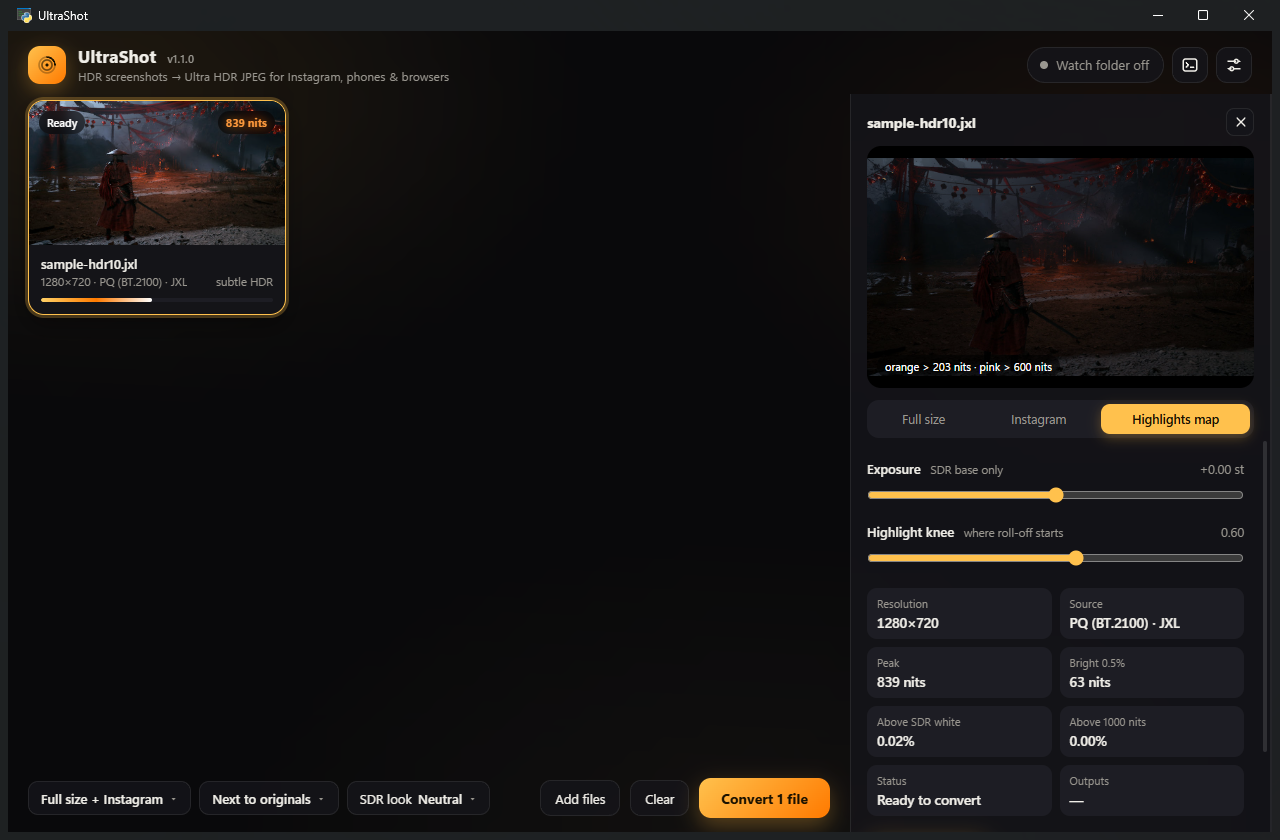
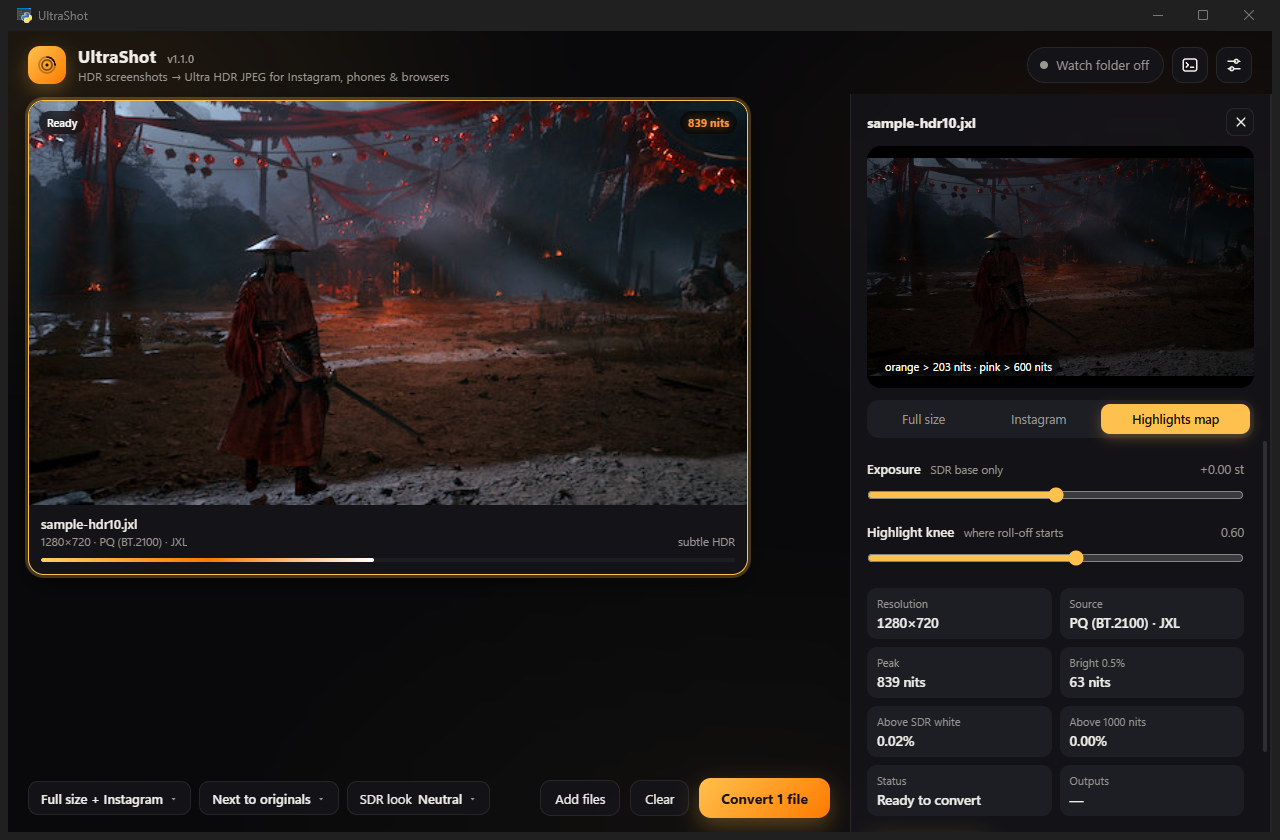
Tiles sized to the list, source comparison opens fitted
The card grid computes its columns from the number of captures and the space available, so one capture gets a large tile at the left, a few share the width, and a long list keeps the dense grid; it refits on every resize. The source comparison in the viewer opens fitted to the window with an Actual pixels toggle and double-click-to-zoom on the chosen spot. The screenshot tool now keeps its own session file and thumbnail cache instead of the app's.

Changed region(s): [[0.0, 0.0929, 0.5938, 0.7119], [0.0312, 0.0, 0.0625, 0.031], [0.0, 0.4952, 0.0312, 0.5262]]

diff --git a/ui/app.js b/ui/app.js
@@ -82,8 +82,30 @@ function renderGrid() {
   empty.classList.toggle("hidden", has);
   grid.innerHTML = "";
   for (const id of S.order) grid.appendChild(cardFor(S.files.get(id)));
+  fitGrid();
   updateConvertButton();
 }
+
+// Tiles grow to use the space: one capture fills the view, a handful share it, and only a long
+// list falls back to the dense grid. Re-run whenever the list or the available area changes.
+function fitGrid() {
+  const grid = $("#grid"), main = $("#main"), n = S.order.length;
+  if (!n) return;
+  const gap = 14, cs = getComputedStyle(main);
+  const W = main.clientWidth - parseFloat(cs.paddingLeft) - parseFloat(cs.paddingRight);
+  const H = main.clientHeight - parseFloat(cs.paddingTop) - parseFloat(cs.paddingBottom);
+  const minTile = innerWidth < 1100 ? 220 : 250, caption = 78;
+  const maxCols = Math.max(1, Math.floor((W + gap) / (minTile + gap)));
+  let cols = Math.min(maxCols, Math.ceil(Math.sqrt(n)));
+  let tile = (W - gap * (cols - 1)) / cols;
+  // a few big tiles must still fit the height of the view, two rows at most for 2-4 captures
+  const rows = Math.ceil(n / cols);
+  const byHeight = ((H - gap * (rows - 1)) / rows - caption) * 16 / 9;
+  tile = Math.max(minTile, Math.min(tile, 720, byHeight));
+  grid.style.gridTemplateColumns = `repeat(${cols}, minmax(0, ${Math.floor(tile)}px))`;
+  grid.style.justifyContent = "start";
+}
+new ResizeObserver(() => fitGrid()).observe(document.getElementById("main"));
 
 function pendingIds() {
   const redo = !!S.settings.overwrite;
@@ -422,7 +444,7 @@ function appendLog(t, msg) {
 }
 
 /* ------------------------------------------------------------------ result viewer */
-const LB = { ids: [], i: 0, which: "ig", path: null, seq: 0, info: false, report: "", compare: false, cmpMode: "sdrhdr", cmpSeq: 0 };
+const LB = { ids: [], i: 0, which: "ig", path: null, seq: 0, info: false, report: "", compare: false, cmpMode: "sdrhdr", cmpZoom: "fit", cmpSeq: 0 };
 
 function convertedIds() { return S.order.filter((id) => { const f = S.files.get(id); return f && f.outputs && f.outputs.length; }); }
 
@@ -456,9 +478,10 @@ async function loadCompare() {
   const seq = ++LB.cmpSeq, stage = $("#cmpStage"), one = LB.cmpMode === "source";
   $("#cmpMode").querySelectorAll("button").forEach((b) => b.classList.toggle("on", b.dataset.v === LB.cmpMode));
   $("#cmpLoading").style.display = ""; $("#cmpMetrics").innerHTML = ""; $("#cmpHint").textContent = "";
-  stage.classList.toggle("one-to-one", one);
+  stage.classList.remove("one-to-one");
   stage.style.maxWidth = ""; stage.style.maxHeight = "";
   stage.style.setProperty("--px", "0px"); stage.style.setProperty("--py", "0px");
+  $("#cmpZoom").classList.toggle("hidden", !one);
   setWipe(50);
   let r;
   try { r = one ? await S.api.compare_source(id) : await S.api.compare_sdr_hdr(id, LB.which); } catch (e) { r = { error: String(e) }; }
@@ -468,21 +491,14 @@ async function loadCompare() {
   if (one) {
     $("#cmpImgA").src = r.src_url; $("#cmpImgB").src = r.base_url;
     $("#cmpLabelA").textContent = "Source, same tone map"; $("#cmpLabelB").textContent = "Output base image";
-    $("#cmpHint").textContent = "Actual pixels. Drag the image to pan, the handle to wipe.";
     const m = r.metrics, sdrOk = m.sdr_psnr_db >= 40, hdrOk = m.hdr_p99_rel_err <= 5;
     $("#cmpMetrics").innerHTML =
       `<span>SDR base vs source: <b class="${sdrOk ? "ok" : "warn"}">${m.sdr_psnr_db >= 99 ? "identical" : m.sdr_psnr_db.toFixed(1) + " dB PSNR"}</b>, max ${m.sdr_max_diff}/255, ${m.sdr_pixels_over_2.toFixed(2)}% of pixels off by more than 2 levels</span>` +
       `<span>HDR layer vs source: <b class="${hdrOk ? "ok" : "warn"}">${m.hdr_mean_rel_err.toFixed(2)}% mean luminance error</b>, ${m.hdr_p99_rel_err.toFixed(1)}% at the 99th percentile, ${m.hdr_pixels_over_5pct.toFixed(2)}% of pixels off by more than 5% (pixels above 5 nits)</span>` +
       `<span>Peak: source <b>${Math.round(m.hdr_peak_source)}</b> nits, output <b>${Math.round(m.hdr_peak_output)}</b> nits</span>` +
       `<span>Rendered with the current look (exposure ${m.look.exposure >= 0 ? "+" : ""}${m.look.exposure.toFixed(2)}, knee ${m.look.knee.toFixed(2)}${m.look.limit_nits ? ", limit " + m.look.limit_nits + " nits" : ""})</span>`;
-    // At 1:1 the stage never exceeds the image, so a small capture sits centred with the wipe
-    // running across the picture, and a large one starts centred on its middle.
-    $("#cmpImgA").onload = () => {
-      const img = $("#cmpImgA");
-      stage.style.maxWidth = img.naturalWidth + "px"; stage.style.maxHeight = img.naturalHeight + "px";
-      const dx = Math.min(0, (stage.clientWidth - img.naturalWidth) / 2), dy = Math.min(0, (stage.clientHeight - img.naturalHeight) / 2);
-      stage.style.setProperty("--px", dx + "px"); stage.style.setProperty("--py", dy + "px");
-    };
+    $("#cmpImgA").onload = () => applyZoom();
+    if ($("#cmpImgA").complete && $("#cmpImgA").naturalWidth) applyZoom();
   } else {
     stage.style.maxWidth = ""; stage.style.maxHeight = "";
     $("#cmpImgA").src = r.base_url; $("#cmpImgB").src = r.full_url;
@@ -491,8 +507,42 @@ async function loadCompare() {
     $("#cmpMetrics").innerHTML = `<span>${r.w}×${r.h} · ${LB.which === "full" ? "full-size file" : "Instagram copy"} · drag the handle to wipe</span>`;
   }
 }
+// The source comparison opens fitted to the window. "Actual pixels" (or a double-click on a spot)
+// switches to 1:1, where the stage never exceeds the image: a small capture sits centred with the
+// wipe across the picture, a large one is panned by dragging. `focus` is the image point (0..1)
+// to keep under the pointer when zooming in.
+function applyZoom(focus) {
+  const stage = $("#cmpStage"), img = $("#cmpImgA"), px = LB.cmpMode === "source" && LB.cmpZoom === "1:1";
+  stage.classList.toggle("one-to-one", px);
+  $("#cmpZoom").classList.toggle("on", px);
+  $("#cmpZoom").textContent = px ? "Fit to window" : "Actual pixels";
+  $("#cmpHint").textContent = px ? "Actual pixels. Drag the image to pan, the handle to wipe; double-click to fit."
+                                 : "Fitted to the window. Drag the handle to wipe; double-click a spot to see its actual pixels.";
+  if (!px || !img.naturalWidth) { stage.style.maxWidth = ""; stage.style.maxHeight = ""; stage.style.setProperty("--px", "0px"); stage.style.setProperty("--py", "0px"); return; }
+  stage.style.maxWidth = img.naturalWidth + "px"; stage.style.maxHeight = img.naturalHeight + "px";
+  const sw = stage.clientWidth, sh = stage.clientHeight, f = focus || { x: 0.5, y: 0.5, sx: sw / 2, sy: sh / 2 };
+  const dx = Math.min(0, Math.max(sw - img.naturalWidth, f.sx - f.x * img.naturalWidth));
+  const dy = Math.min(0, Math.max(sh - img.naturalHeight, f.sy - f.y * img.naturalHeight));
+  stage.style.setProperty("--px", dx + "px"); stage.style.setProperty("--py", dy + "px");
+}
+function toggleZoom(e) {
+  if (LB.cmpMode !== "source") return;
+  const stage = $("#cmpStage"), img = $("#cmpImgA"), rect = stage.getBoundingClientRect();
+  LB.cmpZoom = LB.cmpZoom === "1:1" ? "fit" : "1:1";
+  let focus = null;
+  if (e && LB.cmpZoom === "1:1" && img.naturalWidth) {
+    // where in the fitted picture was the click, as a fraction of the image
+    const s = Math.min(rect.width / img.naturalWidth, rect.height / img.naturalHeight);
+    const dw = img.naturalWidth * s, dh = img.naturalHeight * s, ox = (rect.width - dw) / 2, oy = (rect.height - dh) / 2;
+    const x = Math.max(0, Math.min(1, (e.clientX - rect.left - ox) / dw)), y = Math.max(0, Math.min(1, (e.clientY - rect.top - oy) / dh));
+    focus = { x, y, sx: e.clientX - rect.left, sy: e.clientY - rect.top };
+  }
+  applyZoom(focus);
+}
 function bindWipe() {
   const stage = $("#cmpStage"); let drag = null;
+  stage.addEventListener("dblclick", (e) => toggleZoom(e));
+  $("#cmpZoom").addEventListener("click", () => toggleZoom(null));
   stage.addEventListener("pointerdown", (e) => {
     const rect = stage.getBoundingClientRect();
     const onHandle = e.target.closest("#cmpHandle") || Math.abs(e.clientX - (rect.left + rect.width * parseFloat(getComputedStyle(stage).getPropertyValue("--wipe")) / 100)) < 14;

diff --git a/ui/index.html b/ui/index.html
@@ -149,7 +149,8 @@
   <div class="lb-stage" id="lbStage"><img id="lbImg" alt=""><div class="lb-loading" id="lbLoading"><span class="spinner"></span></div></div>
   <div class="lb-compare hidden" id="lbCompare">
     <div class="cmp-tools">
-      <div class="seg mini" id="cmpMode"><button data-v="sdrhdr" class="on">SDR base vs Ultra HDR</button><button data-v="source">Source vs output · 1:1</button></div>
+      <div class="seg mini" id="cmpMode"><button data-v="sdrhdr" class="on">SDR base vs Ultra HDR</button><button data-v="source">Source vs output</button></div>
+      <button class="ghost tiny hidden" id="cmpZoom" title="Switch between fitting the window and showing real pixels (or double-click the picture)">Actual pixels</button>
       <span class="cmp-hint" id="cmpHint"></span>
     </div>
     <div class="cmp-stage" id="cmpStage">

diff --git a/tools/screenshots.py b/tools/screenshots.py
@@ -62,6 +62,11 @@ def main():
     os.makedirs(OUT, exist_ok=True)
     ctypes.windll.shcore.SetProcessDpiAwareness(1)
 
+    # Keep the demo run away from the real app's remembered list and thumbnail cache.
+    import tempfile
+    scratch = tempfile.mkdtemp(prefix="ultrashot-shots-")
+    U.SESSION_FILE = os.path.join(scratch, "session.json")
+    U.THUMB_DIR = os.path.join(scratch, "thumbs")
     app = U.App()
     app.settings.update(watch=False, startup=False, explorer_menu=False, tray=False, theme="dark",
                         ig_crop="4:5", exposure=0.0, knee=0.6, auto_sdr=False)

diff --git a/CHANGELOG.md b/CHANGELOG.md
@@ -23,6 +23,11 @@ All notable changes to UltraShot are documented here. The format follows
   same tone map so the two differ only by what the encoder changed. The source comparison reports
   the PSNR of the base image against the source, the share of pixels off by more than two levels,
   and the mean, 99th-percentile and over-five-percent luminance error of the reconstructed HDR layer.
+- Tiles size themselves to the list: one capture gets a large tile, a few share the width in two or
+  three columns, and only a long list falls back to the dense grid. The grid refits whenever the
+  window or the panes change.
+- The source comparison opens fitted to the window; an "Actual pixels" button or a double-click on
+  the picture zooms to 1:1 at that spot, and the image can then be dragged to pan.
 - The layout now adapts to the window: panes shrink to the space available and the oldest one closes
   when the window cannot hold them all, the bottom bar wraps on narrow windows, and the viewer's
   controls, compare stage and details panel fit windows down to 960 by 640.
